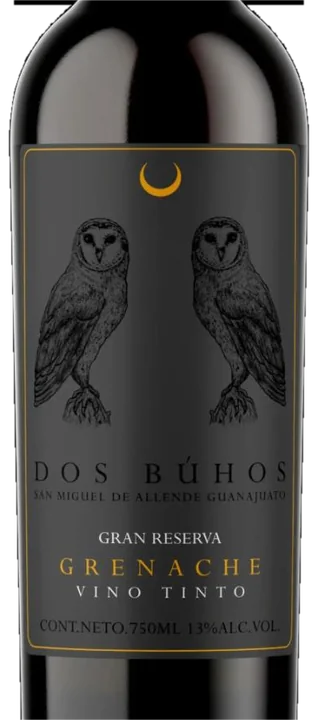
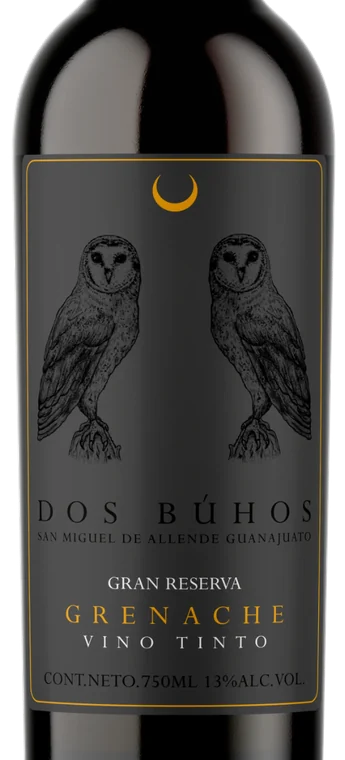
Card: Experiences section, real bottle images, restaurant photo
- Tours & tastings becomes Experiences: six bookable experiences from the
  website (guided tour, bar tasting, 5-course pairing, picnic, pétanque,
  groups), each with its own OpenTable experience link and price.
- Bottle images re-cut from the store's original transparent PNG/WebP
  files (no more reconstructed necks/edges).
- Restaurant 'Fire, the huerta' slide no longer uses the family photo.

Claude-Session: https://claude.ai/code/session_018irpraP5aEq1VTuVsJgVpB

diff --git a/card/public/index.html b/card/public/index.html
@@ -233,6 +233,7 @@
   #viewer img{max-width:100%;max-height:100%;object-fit:contain}
   #viewer video,#viewer iframe{width:100%;max-height:100%;aspect-ratio:16/9;border:0;background:#000}
   #viewer video[hidden],#viewer iframe[hidden],#viewer img[hidden]{display:none}
+  .slink{display:inline-block;margin-top:12px;font-size:11px;letter-spacing:.2em;text-transform:uppercase;color:var(--warm);text-decoration:none;border-bottom:1px solid var(--line);padding-bottom:4px}
   .quotes{margin-top:18px;display:grid;gap:14px}
   .quotes blockquote{margin:0;padding:16px 18px;border-left:2px solid var(--warm);background:var(--card)}
   .quotes blockquote p{font-family:"Cormorant Garamond",Georgia,serif;font-size:18px;line-height:1.35;color:var(--ink)}
@@ -300,7 +301,7 @@
             <div class="slide"><img loading="lazy" src="/photos/vineyard-talk.jpg" alt=""><h4 class="en">What the land said</h4><h4 class="es">Lo que dijo la tierra</h4><p class="en">It said: hot days, cold nights, volcanic ground that drains like a sieve. Grapes ripen slowly up here and hold on to their acid the way they can't in a warm valley. Twenty years ago there were a handful of wineries on the altiplano. Today there are fifty. The land was right.</p><p class="es">Dijo: días calientes, noches frías, suelo volcánico que drena como coladera. Aquí la uva madura despacio y conserva su acidez como no puede hacerlo en un valle cálido. Hace veinte años había un puñado de bodegas en el altiplano. Hoy hay cincuenta. La tierra tenía razón.</p></div>
             <div class="slide"><img loading="lazy" src="/photos/harvest-bin.jpg" alt=""><h4 class="en">The ones that won</h4><h4 class="es">Las que ganaron</h4><p class="en">Aglianico, the black grape of southern Italy's volcanoes: stubborn, late, and unwilling to give up its acid. We make two barrels a year and guard them. Chenin Blanc, which turns cold nights into nerve. And an orange wine from Moscato Giallo, skins and all.</p><p class="es">Aglianico, la uva negra de los volcanes del sur de Italia: terca, tardía y que no suelta su acidez. Hacemos dos barricas al año y las cuidamos. Chenin Blanc, que convierte las noches frías en nervio. Y un vino naranja de Moscato Giallo, con todo y pieles.</p><a class="more" href="#wines" onclick="jump('acc-wines');return false"><span class="en">The wines, with notes ›</span><span class="es">Los vinos, con notas ›</span></a></div>
             <div class="slide"><img loading="lazy" src="/photos/cellar.jpg" alt=""><h4 class="en">How we make it</h4><h4 class="es">Cómo lo hacemos</h4><p class="en">Organic before there was any wine to sell; Oregon Tilth certified since 2014. The yeast comes in on the grapes. Fermentation starts when it starts. Clay amphorae, old oak with nothing left to say, and as little sulfur as we can get away with. The idea is to get out of the way.</p><p class="es">Orgánicos desde antes de tener vino que vender; certificados por Oregon Tilth desde 2014. La levadura llega con la uva. La fermentación arranca cuando arranca. Ánforas de barro, barricas viejas que ya no tienen nada que decir y el mínimo de sulfitos posible. La idea es no estorbar.</p></div>
-            <div class="slide"><img loading="lazy" src="/photos/orange-wine-table.jpg" style="object-position:50% 40%" alt=""><h4 class="en">Where we're poured</h4><h4 class="es">Dónde nos sirven</h4><p class="en">On the lists at Pujol, Quintonil, Nobu and Rosewood. Grand Gold in Brussels, Gold at Bacchus and in Los Angeles, which we mention once and then put back in the drawer. Imported to the United States.</p><p class="es">En las cartas de Pujol, Quintonil, Nobu y Rosewood. Gran Oro en Bruselas, Oro en Bacchus y en Los Ángeles, que mencionamos una vez y guardamos en el cajón. Importados a Estados Unidos.</p><a class="more" href="/press/"><span class="en">Press kit &amp; fact sheet ›</span><span class="es">Kit de prensa y ficha ›</span></a></div>
+            <div class="slide"><img loading="lazy" src="/photos/pouring.jpg" alt=""><h4 class="en">Where we're poured</h4><h4 class="es">Dónde nos sirven</h4><p class="en">On the lists at Pujol, Quintonil, Nobu and Rosewood. Grand Gold in Brussels, Gold at Bacchus and in Los Angeles, which we mention once and then put back in the drawer. Imported to the United States.</p><p class="es">En las cartas de Pujol, Quintonil, Nobu y Rosewood. Gran Oro en Bruselas, Oro en Bacchus y en Los Ángeles, que mencionamos una vez y guardamos en el cajón. Importados a Estados Unidos.</p><a class="more" href="/press/"><span class="en">Press kit &amp; fact sheet ›</span><span class="es">Kit de prensa y ficha ›</span></a></div>
             <div class="slide"><img loading="lazy" src="/photos/family-road.jpg" alt=""><h4 class="en">Four generations</h4><h4 class="es">Cuatro generaciones</h4><p class="en">The father farms it. The mother makes the wine. The son runs the cellar and the restaurant. Nobody is in a hurry. Better wines for a better world: that was the whole plan, and it still is.</p><p class="es">El padre cultiva. La madre hace el vino. El hijo lleva la bodega y el restaurante. Nadie tiene prisa. Mejores vinos para un mejor mundo: ese era todo el plan, y sigue siéndolo.</p></div>
             <div class="slide"><img loading="lazy" src="/photos/higinio-orange-truck.jpg" style="object-position:50% 32%" alt=""><h4 class="en">Come taste it where it's made</h4><h4 class="es">Ven a probarlo donde se hace</h4><p class="en">A walk through the vines and four wines in the cellar, or lunch under the trees. Or just write to us; a person answers.</p><p class="es">Un recorrido entre las vides y cuatro vinos en la bodega, o una comida bajo los árboles. O simplemente escríbenos; contesta una persona.</p><div class="row"><a class="btn solid" href="https://wa.me/524151247583"><span class="en">Book a visit</span><span class="es">Reservar visita</span></a><a class="btn" href="https://www.opentable.com.mx/restref/client/?restref=1258120&lang=es-MX&ot_source=Restaurant%20website"><span class="en">Reserve a table</span><span class="es">Reservar mesa</span></a></div></div>
           </div>
@@ -310,15 +311,18 @@
 
       <!-- TOURS -->
       <div class="acc" id="acc-tours">
-        <button class="acc-h" onclick="toggle('acc-tours')"><span class="t"><b class="en">Tours &amp; tastings</b><b class="es">Visitas y catas</b><span class="en">Vineyard, cellar, four wines</span><span class="es">Viñedo, bodega, cuatro vinos</span></span><span class="chev"></span></button>
+        <button class="acc-h" onclick="toggle('acc-tours')"><span class="t"><b class="en">Experiences</b><b class="es">Experiencias</b><span class="en">Tours, tastings, a table in the vines</span><span class="es">Visitas, catas, una mesa en el viñedo</span></span><span class="chev"></span></button>
         <div class="acc-b"><div class="acc-i">
           <div class="car" data-car>
-            <div class="slide"><img loading="lazy" src="/photos/recorrido.jpg" alt=""><h4 class="en">The vineyard walk</h4><h4 class="es">El recorrido</h4><p class="en">Twelve varieties at 6,500 feet, the volcano behind you, sheep in the rows. We walk the vines with the people who make the wine.</p><p class="es">Doce variedades a 2,000 metros, el volcán detrás, borregos entre las hileras. Caminamos el viñedo con quien hace el vino.</p></div>
-            <div class="slide"><img loading="lazy" src="/photos/cellar.jpg" alt=""><h4 class="en">The cellar</h4><h4 class="es">La bodega</h4><p class="en">Amphora, native-yeast ferments, neutral oak. Taste from barrel when there's something worth tasting.</p><p class="es">Ánforas, fermentaciones con levadura nativa, barrica neutra. Cata de barrica cuando hay algo que valga la pena.</p></div>
-            <div class="slide"><img loading="lazy" src="/photos/pouring.jpg" alt=""><h4 class="en">Four wines at the table</h4><h4 class="es">Cuatro vinos en la mesa</h4><p class="en">Daily, by reservation, 45 minutes to an hour. Two, three or four glasses; a non-alcoholic version too. Barrel-room and chapel experiences on request.</p><p class="es">Diario, con reservación, de 45 minutos a una hora. Dos, tres o cuatro copas; también versión sin alcohol. Sala de barricas y capilla bajo pedido.</p></div>
+            <div class="slide"><img loading="lazy" src="/photos/recorrido.jpg" style="object-position:50% 50%" alt=""><h4 class="en">Guided tour &amp; four wines</h4><h4 class="es">Visita guiada y cuatro vinos</h4><p class="en">Walk the organic vineyard, the orchard, the gallery and the barrel room with someone who works there, then sit down to four of our wines. Stay for lunch after.</p><p class="es">Recorre el viñedo orgánico, la huerta, la galería y la sala de barricas con alguien que trabaja ahí, y siéntate a probar cuatro de nuestros vinos. Quédate a comer después.</p><a class="slink" href="https://www.opentable.com.mx/booking/experiences-availability?rid=1258120&amp;restref=1258120&amp;lang=es-MX&amp;ot_source=Restaurant%20website&amp;experienceId=796500" target="_blank" rel="noopener"><span class="en">Book · from $700</span><span class="es">Reservar · desde $700</span> →</a></div>
+            <div class="slide"><img loading="lazy" src="/photos/pouring.jpg" style="object-position:50% 50%" alt=""><h4 class="en">Four wines at the bar</h4><h4 class="es">Cuatro vinos en la barra</h4><p class="en">No tour, no schedule: four wines at the outdoor bar, poured at your pace by the people who know them.</p><p class="es">Sin recorrido ni prisa: cuatro vinos en la barra al aire libre, servidos a tu ritmo por quien los conoce.</p><a class="slink" href="https://www.opentable.com.mx/booking/experiences-availability?rid=1258120&amp;restref=1258120&amp;lang=es-MX&amp;ot_source=Restaurant%20website&amp;experienceId=842882" target="_blank" rel="noopener"><span class="en">Book · from $450</span><span class="es">Reservar · desde $450</span> →</a></div>
+            <div class="slide"><img loading="lazy" src="/photos/orange-wine-table.jpg" style="object-position:50% 40%" alt=""><h4 class="en">Five courses, paired</h4><h4 class="es">Cinco tiempos con maridaje</h4><p class="en">Chef Eduardo López Torres's tasting menu, rewritten every three months around what the season brings in. Each course with a wine chosen for it; also without pairing.</p><p class="es">El menú degustación del chef Eduardo López Torres, que cambia cada tres meses con lo que trae la temporada. Cada tiempo con un vino elegido para él; también sin maridaje.</p><a class="slink" href="https://www.opentable.com.mx/booking/experiences-availability?rid=1258120&amp;restref=1258120&amp;lang=es-MX&amp;ot_source=Restaurant%20website&amp;experienceId=793495" target="_blank" rel="noopener"><span class="en">Book · $1,950</span><span class="es">Reservar · $1,950</span> →</a></div>
+            <div class="slide"><img loading="lazy" src="/photos/kids-grapes.jpg" style="object-position:50% 35%" alt=""><h4 class="en">Picnic in the vines</h4><h4 class="es">Picnic en el viñedo</h4><p class="en">A picnic from the kitchen and a bottle of Sauvignon Blanc, Rosé or Mosaico Tinto, under a mezquite or wherever you like. Dogs welcome. Book a day ahead.</p><p class="es">Un picnic de la cocina y una botella de Sauvignon Blanc, Rosado o Mosaico Tinto, bajo un mezquite o donde prefieras. Perros bienvenidos. Reserva con un día de anticipación.</p><a class="slink" href="https://www.opentable.com.mx/booking/experiences-availability?rid=1258120&amp;restref=1258120&amp;lang=es-MX&amp;ot_source=Restaurant%20website&amp;experienceId=793530" target="_blank" rel="noopener"><span class="en">Book · $850 pp</span><span class="es">Reservar · $850 p/p</span> →</a></div>
+            <div class="slide"><img loading="lazy" src="/photos/cross-fountain-pergola.jpg" style="object-position:50% 45%" alt=""><h4 class="en">Pétanque &amp; sparkling</h4><h4 class="es">Petanca y espumoso</h4><p class="en">Two hours of pétanque in the garden, sparkling rosé, caramelized nuts and rosemary olives, shade between games. For two to six.</p><p class="es">Dos horas de petanca en el jardín, espumoso rosado, nueces caramelizadas y aceitunas al romero, sombra entre partidas. De dos a seis personas.</p><a class="slink" href="https://www.opentable.com.mx/booking/experiences-availability?rid=1258120&amp;restref=1258120&amp;lang=es-MX&amp;ot_source=Restaurant%20website&amp;experienceId=796410" target="_blank" rel="noopener"><span class="en">Book · from $400</span><span class="es">Reservar · desde $400</span> →</a></div>
+            <div class="slide"><img loading="lazy" src="/photos/cellar.jpg" style="object-position:50% 50%" alt=""><h4 class="en">Groups &amp; schools</h4><h4 class="es">Grupos y escuelas</h4><p class="en">Ten or more: a private tasting room, limited-production wines, and programs for universities and culinary schools. Write to us and we will build it.</p><p class="es">Diez o más: sala de cata privada, vinos de producción limitada y programas para universidades y escuelas de cocina. Escríbenos y lo armamos.</p><a class="slink" href="https://wa.me/524151247583" target="_blank" rel="noopener"><span class="en">Write on WhatsApp</span><span class="es">Escríbenos por WhatsApp</span> →</a></div>
           </div>
           <div class="carnav"><button class="prev" aria-label="previous">‹</button><div class="dots"></div><button class="next" aria-label="next">›</button></div>
-          <div class="row"><a class="btn" href="https://www.opentable.com.mx/restref/client/?restref=1258120&lang=es-MX&ot_source=Restaurant%20website"><span class="en">Book a tour</span><span class="es">Reservar visita</span></a><a class="btn" href="https://wa.me/524151247583">WhatsApp</a></div>
+          <div class="row"><a class="btn" href="https://www.opentable.com.mx/restref/client/?restref=1258120&lang=es-MX&ot_source=Restaurant%20website"><span class="en">All experiences</span><span class="es">Todas las experiencias</span></a><a class="btn" href="https://wa.me/524151247583">WhatsApp</a></div>
         </div></div>
       </div>
 
@@ -328,7 +332,7 @@
         <div class="acc-b"><div class="acc-i">
           <div class="car" data-car>
             <div class="slide"><img loading="lazy" src="/photos/lunch-table.jpg" alt=""><h4 class="en">The long table</h4><h4 class="es">La mesa larga</h4><p class="en">Lunch is a long table under the mezquites with the vineyard at the end of it. The menu is fixed and short, because it follows the garden, and the wine in your glass came from the rows you can see from your chair.</p><p class="es">La comida es una mesa larga bajo los mezquites con el viñedo al fondo. El menú es fijo y corto, porque sigue a la huerta, y el vino en tu copa viene de las hileras que ves desde tu silla.</p></div>
-            <div class="slide"><img loading="lazy" src="/photos/grandfather.jpg" alt=""><h4 class="en">Fire, the huerta, the ranches</h4><h4 class="es">Fuego, huerta y ranchos</h4><p class="en">Whatever can be cooked over wood is cooked over wood. The vegetables come from the organic huerta behind the restaurant, the meat from ranches we can drive to before lunch, the olive oil from our own trees. The plate is as local as we can make it.</p><p class="es">Lo que se puede cocinar a la leña se cocina a la leña. La verdura viene de la huerta orgánica detrás del restaurante, la carne de ranchos a los que podemos ir antes de la comida, el aceite de nuestros propios olivos. El plato es tan de aquí como podemos hacerlo.</p></div>
+            <div class="slide"><img loading="lazy" src="/photos/welcome-bicycle.jpg" style="object-position:50% 55%" alt=""><h4 class="en">Fire, the huerta, the ranches</h4><h4 class="es">Fuego, huerta y ranchos</h4><p class="en">Whatever can be cooked over wood is cooked over wood. The vegetables come from the organic huerta behind the restaurant, the meat from ranches we can drive to before lunch, the olive oil from our own trees. The plate is as local as we can make it.</p><p class="es">Lo que se puede cocinar a la leña se cocina a la leña. La verdura viene de la huerta orgánica detrás del restaurante, la carne de ranchos a los que podemos ir antes de la comida, el aceite de nuestros propios olivos. El plato es tan de aquí como podemos hacerlo.</p></div>
             <div class="slide"><img loading="lazy" src="/photos/glasses.jpg" alt=""><h4 class="en">The flights</h4><h4 class="es">Los vuelos</h4><p class="en">On weekends we pour flights: four wines, four small glasses, and someone at the table who can tell you which row they came from. The fastest education in altiplano wine we know of.</p><p class="es">Los fines de semana servimos vuelos: cuatro vinos, cuatro copas pequeñas y alguien en la mesa que te dice de qué hilera vienen. La educación más rápida en vino del altiplano que conocemos.</p></div>
             <div class="slide"><img loading="lazy" src="/photos/bar-truck.jpg" alt=""><h4>El Jardín del Vino</h4><p class="en">The wine garden, open to whoever walks in: wines by the glass, wine cocktails on draft, antojos from the kitchen, and an old pickup that became the bar. No reservation. Find a chair under a tree.</p><p class="es">El jardín del vino, abierto a quien llegue: vinos por copa, cocteles de vino de barril, antojos de la cocina y una camioneta vieja convertida en barra. Sin reservación. Busca una silla bajo un árbol.</p></div>
             <div class="slide"><img loading="lazy" src="/photos/petanque.jpg" alt=""><h4 class="en">Stay the afternoon</h4><h4 class="es">Quédate la tarde</h4><p class="en">Nobody brings the check until you ask for it. There is pétanque in the gravel, a second bottle if the first one went well, and the light on the vines around five that we would charge for if we could.</p><p class="es">Nadie trae la cuenta hasta que la pides. Hay petanca en la grava, una segunda botella si la primera salió bien, y la luz sobre las vides a eso de las cinco, que cobraríamos si pudiéramos.</p></div>
@@ -572,7 +576,7 @@ try { const s = localStorage.getItem('lang'); if (s) setLang(s); else if ((navig
 
 // offline
 // Self-update: the installed app resumes from memory, so check the version whenever it comes to the front
-const APP_VER = '202611080801'; let lastCheck = 0;
+const APP_VER = '202611080813'; let lastCheck = 0;
 async function checkVersion(){ if (Date.now() - lastCheck < 30000 || !navigator.onLine) return; lastCheck = Date.now();
   try { const r = await fetch('/version.json?t=' + Date.now(), { cache: 'no-store' }); const j = await r.json();
     if (j.v && j.v !== APP_VER) { try { const reg = await navigator.serviceWorker.getRegistration(); if (reg) await reg.update(); } catch(e){} setTimeout(() => location.reload(), 800); } } catch(e){} }

diff --git a/card/app_template.html b/card/app_template.html
@@ -233,6 +233,7 @@
   #viewer img{max-width:100%;max-height:100%;object-fit:contain}
   #viewer video,#viewer iframe{width:100%;max-height:100%;aspect-ratio:16/9;border:0;background:#000}
   #viewer video[hidden],#viewer iframe[hidden],#viewer img[hidden]{display:none}
+  .slink{display:inline-block;margin-top:12px;font-size:11px;letter-spacing:.2em;text-transform:uppercase;color:var(--warm);text-decoration:none;border-bottom:1px solid var(--line);padding-bottom:4px}
   .quotes{margin-top:18px;display:grid;gap:14px}
   .quotes blockquote{margin:0;padding:16px 18px;border-left:2px solid var(--warm);background:var(--card)}
   .quotes blockquote p{font-family:"Cormorant Garamond",Georgia,serif;font-size:18px;line-height:1.35;color:var(--ink)}
@@ -300,7 +301,7 @@
             <div class="slide"><img loading="lazy" src="/photos/vineyard-talk.jpg" alt=""><h4 class="en">What the land said</h4><h4 class="es">Lo que dijo la tierra</h4><p class="en">It said: hot days, cold nights, volcanic ground that drains like a sieve. Grapes ripen slowly up here and hold on to their acid the way they can't in a warm valley. Twenty years ago there were a handful of wineries on the altiplano. Today there are fifty. The land was right.</p><p class="es">Dijo: días calientes, noches frías, suelo volcánico que drena como coladera. Aquí la uva madura despacio y conserva su acidez como no puede hacerlo en un valle cálido. Hace veinte años había un puñado de bodegas en el altiplano. Hoy hay cincuenta. La tierra tenía razón.</p></div>
             <div class="slide"><img loading="lazy" src="/photos/harvest-bin.jpg" alt=""><h4 class="en">The ones that won</h4><h4 class="es">Las que ganaron</h4><p class="en">Aglianico, the black grape of southern Italy's volcanoes: stubborn, late, and unwilling to give up its acid. We make two barrels a year and guard them. Chenin Blanc, which turns cold nights into nerve. And an orange wine from Moscato Giallo, skins and all.</p><p class="es">Aglianico, la uva negra de los volcanes del sur de Italia: terca, tardía y que no suelta su acidez. Hacemos dos barricas al año y las cuidamos. Chenin Blanc, que convierte las noches frías en nervio. Y un vino naranja de Moscato Giallo, con todo y pieles.</p><a class="more" href="#wines" onclick="jump('acc-wines');return false"><span class="en">The wines, with notes ›</span><span class="es">Los vinos, con notas ›</span></a></div>
             <div class="slide"><img loading="lazy" src="/photos/cellar.jpg" alt=""><h4 class="en">How we make it</h4><h4 class="es">Cómo lo hacemos</h4><p class="en">Organic before there was any wine to sell; Oregon Tilth certified since 2014. The yeast comes in on the grapes. Fermentation starts when it starts. Clay amphorae, old oak with nothing left to say, and as little sulfur as we can get away with. The idea is to get out of the way.</p><p class="es">Orgánicos desde antes de tener vino que vender; certificados por Oregon Tilth desde 2014. La levadura llega con la uva. La fermentación arranca cuando arranca. Ánforas de barro, barricas viejas que ya no tienen nada que decir y el mínimo de sulfitos posible. La idea es no estorbar.</p></div>
-            <div class="slide"><img loading="lazy" src="/photos/orange-wine-table.jpg" style="object-position:50% 40%" alt=""><h4 class="en">Where we're poured</h4><h4 class="es">Dónde nos sirven</h4><p class="en">On the lists at Pujol, Quintonil, Nobu and Rosewood. Grand Gold in Brussels, Gold at Bacchus and in Los Angeles, which we mention once and then put back in the drawer. Imported to the United States.</p><p class="es">En las cartas de Pujol, Quintonil, Nobu y Rosewood. Gran Oro en Bruselas, Oro en Bacchus y en Los Ángeles, que mencionamos una vez y guardamos en el cajón. Importados a Estados Unidos.</p><a class="more" href="__PRESSKIT__"><span class="en">Press kit &amp; fact sheet ›</span><span class="es">Kit de prensa y ficha ›</span></a></div>
+            <div class="slide"><img loading="lazy" src="/photos/pouring.jpg" alt=""><h4 class="en">Where we're poured</h4><h4 class="es">Dónde nos sirven</h4><p class="en">On the lists at Pujol, Quintonil, Nobu and Rosewood. Grand Gold in Brussels, Gold at Bacchus and in Los Angeles, which we mention once and then put back in the drawer. Imported to the United States.</p><p class="es">En las cartas de Pujol, Quintonil, Nobu y Rosewood. Gran Oro en Bruselas, Oro en Bacchus y en Los Ángeles, que mencionamos una vez y guardamos en el cajón. Importados a Estados Unidos.</p><a class="more" href="__PRESSKIT__"><span class="en">Press kit &amp; fact sheet ›</span><span class="es">Kit de prensa y ficha ›</span></a></div>
             <div class="slide"><img loading="lazy" src="/photos/family-road.jpg" alt=""><h4 class="en">Four generations</h4><h4 class="es">Cuatro generaciones</h4><p class="en">The father farms it. The mother makes the wine. The son runs the cellar and the restaurant. Nobody is in a hurry. Better wines for a better world: that was the whole plan, and it still is.</p><p class="es">El padre cultiva. La madre hace el vino. El hijo lleva la bodega y el restaurante. Nadie tiene prisa. Mejores vinos para un mejor mundo: ese era todo el plan, y sigue siéndolo.</p></div>
             <div class="slide"><img loading="lazy" src="/photos/higinio-orange-truck.jpg" style="object-position:50% 32%" alt=""><h4 class="en">Come taste it where it's made</h4><h4 class="es">Ven a probarlo donde se hace</h4><p class="en">A walk through the vines and four wines in the cellar, or lunch under the trees. Or just write to us; a person answers.</p><p class="es">Un recorrido entre las vides y cuatro vinos en la bodega, o una comida bajo los árboles. O simplemente escríbenos; contesta una persona.</p><div class="row"><a class="btn solid" href="https://wa.me/__WA_VISITS__"><span class="en">Book a visit</span><span class="es">Reservar visita</span></a><a class="btn" href="__OPENTABLE__"><span class="en">Reserve a table</span><span class="es">Reservar mesa</span></a></div></div>
           </div>
@@ -310,15 +311,18 @@
 
       <!-- TOURS -->
       <div class="acc" id="acc-tours">
-        <button class="acc-h" onclick="toggle('acc-tours')"><span class="t"><b class="en">Tours &amp; tastings</b><b class="es">Visitas y catas</b><span class="en">Vineyard, cellar, four wines</span><span class="es">Viñedo, bodega, cuatro vinos</span></span><span class="chev"></span></button>
+        <button class="acc-h" onclick="toggle('acc-tours')"><span class="t"><b class="en">Experiences</b><b class="es">Experiencias</b><span class="en">Tours, tastings, a table in the vines</span><span class="es">Visitas, catas, una mesa en el viñedo</span></span><span class="chev"></span></button>
         <div class="acc-b"><div class="acc-i">
           <div class="car" data-car>
-            <div class="slide"><img loading="lazy" src="/photos/recorrido.jpg" alt=""><h4 class="en">The vineyard walk</h4><h4 class="es">El recorrido</h4><p class="en">Twelve varieties at 6,500 feet, the volcano behind you, sheep in the rows. We walk the vines with the people who make the wine.</p><p class="es">Doce variedades a 2,000 metros, el volcán detrás, borregos entre las hileras. Caminamos el viñedo con quien hace el vino.</p></div>
-            <div class="slide"><img loading="lazy" src="/photos/cellar.jpg" alt=""><h4 class="en">The cellar</h4><h4 class="es">La bodega</h4><p class="en">Amphora, native-yeast ferments, neutral oak. Taste from barrel when there's something worth tasting.</p><p class="es">Ánforas, fermentaciones con levadura nativa, barrica neutra. Cata de barrica cuando hay algo que valga la pena.</p></div>
-            <div class="slide"><img loading="lazy" src="/photos/pouring.jpg" alt=""><h4 class="en">Four wines at the table</h4><h4 class="es">Cuatro vinos en la mesa</h4><p class="en">Daily, by reservation, 45 minutes to an hour. Two, three or four glasses; a non-alcoholic version too. Barrel-room and chapel experiences on request.</p><p class="es">Diario, con reservación, de 45 minutos a una hora. Dos, tres o cuatro copas; también versión sin alcohol. Sala de barricas y capilla bajo pedido.</p></div>
+            <div class="slide"><img loading="lazy" src="/photos/recorrido.jpg" style="object-position:50% 50%" alt=""><h4 class="en">Guided tour &amp; four wines</h4><h4 class="es">Visita guiada y cuatro vinos</h4><p class="en">Walk the organic vineyard, the orchard, the gallery and the barrel room with someone who works there, then sit down to four of our wines. Stay for lunch after.</p><p class="es">Recorre el viñedo orgánico, la huerta, la galería y la sala de barricas con alguien que trabaja ahí, y siéntate a probar cuatro de nuestros vinos. Quédate a comer después.</p><a class="slink" href="https://www.opentable.com.mx/booking/experiences-availability?rid=1258120&amp;restref=1258120&amp;lang=es-MX&amp;ot_source=Restaurant%20website&amp;experienceId=796500" target="_blank" rel="noopener"><span class="en">Book · from $700</span><span class="es">Reservar · desde $700</span> →</a></div>
+            <div class="slide"><img loading="lazy" src="/photos/pouring.jpg" style="object-position:50% 50%" alt=""><h4 class="en">Four wines at the bar</h4><h4 class="es">Cuatro vinos en la barra</h4><p class="en">No tour, no schedule: four wines at the outdoor bar, poured at your pace by the people who know them.</p><p class="es">Sin recorrido ni prisa: cuatro vinos en la barra al aire libre, servidos a tu ritmo por quien los conoce.</p><a class="slink" href="https://www.opentable.com.mx/booking/experiences-availability?rid=1258120&amp;restref=1258120&amp;lang=es-MX&amp;ot_source=Restaurant%20website&amp;experienceId=842882" target="_blank" rel="noopener"><span class="en">Book · from $450</span><span class="es">Reservar · desde $450</span> →</a></div>
+            <div class="slide"><img loading="lazy" src="/photos/orange-wine-table.jpg" style="object-position:50% 40%" alt=""><h4 class="en">Five courses, paired</h4><h4 class="es">Cinco tiempos con maridaje</h4><p class="en">Chef Eduardo López Torres's tasting menu, rewritten every three months around what the season brings in. Each course with a wine chosen for it; also without pairing.</p><p class="es">El menú degustación del chef Eduardo López Torres, que cambia cada tres meses con lo que trae la temporada. Cada tiempo con un vino elegido para él; también sin maridaje.</p><a class="slink" href="https://www.opentable.com.mx/booking/experiences-availability?rid=1258120&amp;restref=1258120&amp;lang=es-MX&amp;ot_source=Restaurant%20website&amp;experienceId=793495" target="_blank" rel="noopener"><span class="en">Book · $1,950</span><span class="es">Reservar · $1,950</span> →</a></div>
+            <div class="slide"><img loading="lazy" src="/photos/kids-grapes.jpg" style="object-position:50% 35%" alt=""><h4 class="en">Picnic in the vines</h4><h4 class="es">Picnic en el viñedo</h4><p class="en">A picnic from the kitchen and a bottle of Sauvignon Blanc, Rosé or Mosaico Tinto, under a mezquite or wherever you like. Dogs welcome. Book a day ahead.</p><p class="es">Un picnic de la cocina y una botella de Sauvignon Blanc, Rosado o Mosaico Tinto, bajo un mezquite o donde prefieras. Perros bienvenidos. Reserva con un día de anticipación.</p><a class="slink" href="https://www.opentable.com.mx/booking/experiences-availability?rid=1258120&amp;restref=1258120&amp;lang=es-MX&amp;ot_source=Restaurant%20website&amp;experienceId=793530" target="_blank" rel="noopener"><span class="en">Book · $850 pp</span><span class="es">Reservar · $850 p/p</span> →</a></div>
+            <div class="slide"><img loading="lazy" src="/photos/cross-fountain-pergola.jpg" style="object-position:50% 45%" alt=""><h4 class="en">Pétanque &amp; sparkling</h4><h4 class="es">Petanca y espumoso</h4><p class="en">Two hours of pétanque in the garden, sparkling rosé, caramelized nuts and rosemary olives, shade between games. For two to six.</p><p class="es">Dos horas de petanca en el jardín, espumoso rosado, nueces caramelizadas y aceitunas al romero, sombra entre partidas. De dos a seis personas.</p><a class="slink" href="https://www.opentable.com.mx/booking/experiences-availability?rid=1258120&amp;restref=1258120&amp;lang=es-MX&amp;ot_source=Restaurant%20website&amp;experienceId=796410" target="_blank" rel="noopener"><span class="en">Book · from $400</span><span class="es">Reservar · desde $400</span> →</a></div>
+            <div class="slide"><img loading="lazy" src="/photos/cellar.jpg" style="object-position:50% 50%" alt=""><h4 class="en">Groups &amp; schools</h4><h4 class="es">Grupos y escuelas</h4><p class="en">Ten or more: a private tasting room, limited-production wines, and programs for universities and culinary schools. Write to us and we will build it.</p><p class="es">Diez o más: sala de cata privada, vinos de producción limitada y programas para universidades y escuelas de cocina. Escríbenos y lo armamos.</p><a class="slink" href="https://wa.me/__WA_VISITS__" target="_blank" rel="noopener"><span class="en">Write on WhatsApp</span><span class="es">Escríbenos por WhatsApp</span> →</a></div>
           </div>
           <div class="carnav"><button class="prev" aria-label="previous">‹</button><div class="dots"></div><button class="next" aria-label="next">›</button></div>
-          <div class="row"><a class="btn" href="__TOURS__"><span class="en">Book a tour</span><span class="es">Reservar visita</span></a><a class="btn" href="https://wa.me/__WA_VISITS__">WhatsApp</a></div>
+          <div class="row"><a class="btn" href="__TOURS__"><span class="en">All experiences</span><span class="es">Todas las experiencias</span></a><a class="btn" href="https://wa.me/__WA_VISITS__">WhatsApp</a></div>
         </div></div>
       </div>
 
@@ -328,7 +332,7 @@
         <div class="acc-b"><div class="acc-i">
           <div class="car" data-car>
             <div class="slide"><img loading="lazy" src="/photos/lunch-table.jpg" alt=""><h4 class="en">The long table</h4><h4 class="es">La mesa larga</h4><p class="en">Lunch is a long table under the mezquites with the vineyard at the end of it. The menu is fixed and short, because it follows the garden, and the wine in your glass came from the rows you can see from your chair.</p><p class="es">La comida es una mesa larga bajo los mezquites con el viñedo al fondo. El menú es fijo y corto, porque sigue a la huerta, y el vino en tu copa viene de las hileras que ves desde tu silla.</p></div>
-            <div class="slide"><img loading="lazy" src="/photos/grandfather.jpg" alt=""><h4 class="en">Fire, the huerta, the ranches</h4><h4 class="es">Fuego, huerta y ranchos</h4><p class="en">Whatever can be cooked over wood is cooked over wood. The vegetables come from the organic huerta behind the restaurant, the meat from ranches we can drive to before lunch, the olive oil from our own trees. The plate is as local as we can make it.</p><p class="es">Lo que se puede cocinar a la leña se cocina a la leña. La verdura viene de la huerta orgánica detrás del restaurante, la carne de ranchos a los que podemos ir antes de la comida, el aceite de nuestros propios olivos. El plato es tan de aquí como podemos hacerlo.</p></div>
+            <div class="slide"><img loading="lazy" src="/photos/welcome-bicycle.jpg" style="object-position:50% 55%" alt=""><h4 class="en">Fire, the huerta, the ranches</h4><h4 class="es">Fuego, huerta y ranchos</h4><p class="en">Whatever can be cooked over wood is cooked over wood. The vegetables come from the organic huerta behind the restaurant, the meat from ranches we can drive to before lunch, the olive oil from our own trees. The plate is as local as we can make it.</p><p class="es">Lo que se puede cocinar a la leña se cocina a la leña. La verdura viene de la huerta orgánica detrás del restaurante, la carne de ranchos a los que podemos ir antes de la comida, el aceite de nuestros propios olivos. El plato es tan de aquí como podemos hacerlo.</p></div>
             <div class="slide"><img loading="lazy" src="/photos/glasses.jpg" alt=""><h4 class="en">The flights</h4><h4 class="es">Los vuelos</h4><p class="en">On weekends we pour flights: four wines, four small glasses, and someone at the table who can tell you which row they came from. The fastest education in altiplano wine we know of.</p><p class="es">Los fines de semana servimos vuelos: cuatro vinos, cuatro copas pequeñas y alguien en la mesa que te dice de qué hilera vienen. La educación más rápida en vino del altiplano que conocemos.</p></div>
             <div class="slide"><img loading="lazy" src="/photos/bar-truck.jpg" alt=""><h4>El Jardín del Vino</h4><p class="en">The wine garden, open to whoever walks in: wines by the glass, wine cocktails on draft, antojos from the kitchen, and an old pickup that became the bar. No reservation. Find a chair under a tree.</p><p class="es">El jardín del vino, abierto a quien llegue: vinos por copa, cocteles de vino de barril, antojos de la cocina y una camioneta vieja convertida en barra. Sin reservación. Busca una silla bajo un árbol.</p></div>
             <div class="slide"><img loading="lazy" src="/photos/petanque.jpg" alt=""><h4 class="en">Stay the afternoon</h4><h4 class="es">Quédate la tarde</h4><p class="en">Nobody brings the check until you ask for it. There is pétanque in the gravel, a second bottle if the first one went well, and the light on the vines around five that we would charge for if we could.</p><p class="es">Nadie trae la cuenta hasta que la pides. Hay petanca en la grava, una segunda botella si la primera salió bien, y la luz sobre las vides a eso de las cinco, que cobraríamos si pudiéramos.</p></div>

diff --git a/card/public/sw.js b/card/public/sw.js
@@ -1,5 +1,5 @@
 // Dos Búhos card — pages network-first with cache fallback; assets cache-first, refreshed in background
-const VERSION = 'v202611080801';
+const VERSION = 'v202611080813';
 const PRECACHE = ["/", "/index.html", "/press/", "/press/index.html", "/icons/logo.png", "/photos/harvest.jpg", "/icons/mono-dark.png", "/icons/mono-light.png", "/icons/icon-192.png", "/icons/icon-512.png", "/icons/apple-touch-icon.png", "/fonts/cormorant-garamond-latin-400-italic.woff2", "/fonts/lato-latin-400-normal.woff2", "/fonts/lato-latin-300-normal.woff2", "/fonts/cormorant-garamond-latin-600-normal.woff2", "/fonts/cormorant-garamond-latin-500-normal.woff2", "/fonts/cormorant-garamond-latin-400-normal.woff2", "/manifest-dosbuhos.webmanifest", "/manifest-eric.webmanifest", "/manifest-diane.webmanifest", "/manifest-higinio.webmanifest", "/manifest-melanie.webmanifest", "/manifest-michael.webmanifest", "/vcf/dosbuhos.vcf", "/vcf/eric.vcf", "/vcf/diane.vcf", "/vcf/higinio.vcf", "/vcf/melanie.vcf", "/vcf/michael.vcf", "/photos/harvest.jpg", "/photos/planting.jpg", "/photos/family-road.jpg", "/photos/cellar.jpg", "/photos/harvest-bin.jpg", "/photos/glasses.jpg", "/photos/grandfather.jpg", "/photos/community.jpg", "/photos/vineyard-talk.jpg", "/photos/winegarden-night.jpg", "/photos/bodega-arte.jpg", "/photos/lunch-table.jpg", "/photos/wedding-toast.jpg", "/photos/hacienda.jpg", "/photos/recorrido.jpg", "/photos/pouring.jpg", "/photos/petanque.jpg", "/photos/chapel-facade.jpg", "/photos/higinio-orange-truck.jpg", "/photos/kids-grapes.jpg", "/photos/fountain-courtyard.jpg", "/photos/candle-sparkling.jpg", "/photos/event-table-courtyard.jpg", "/photos/cross-fountain-pergola.jpg", "/photos/welcome-bicycle.jpg", "/photos/engagement-couple.jpg", "/photos/orange-wine-table.jpg", "/photos/vineyard-grapes-woman.jpg"];
 self.addEventListener('install', e => { e.waitUntil(caches.open(VERSION).then(c => c.addAll(PRECACHE)).then(() => self.skipWaiting())); });
 self.addEventListener('activate', e => { e.waitUntil(caches.keys().then(ks => Promise.all(ks.filter(k => k !== VERSION).map(k => caches.delete(k)))).then(() => self.clients.claim())); });
